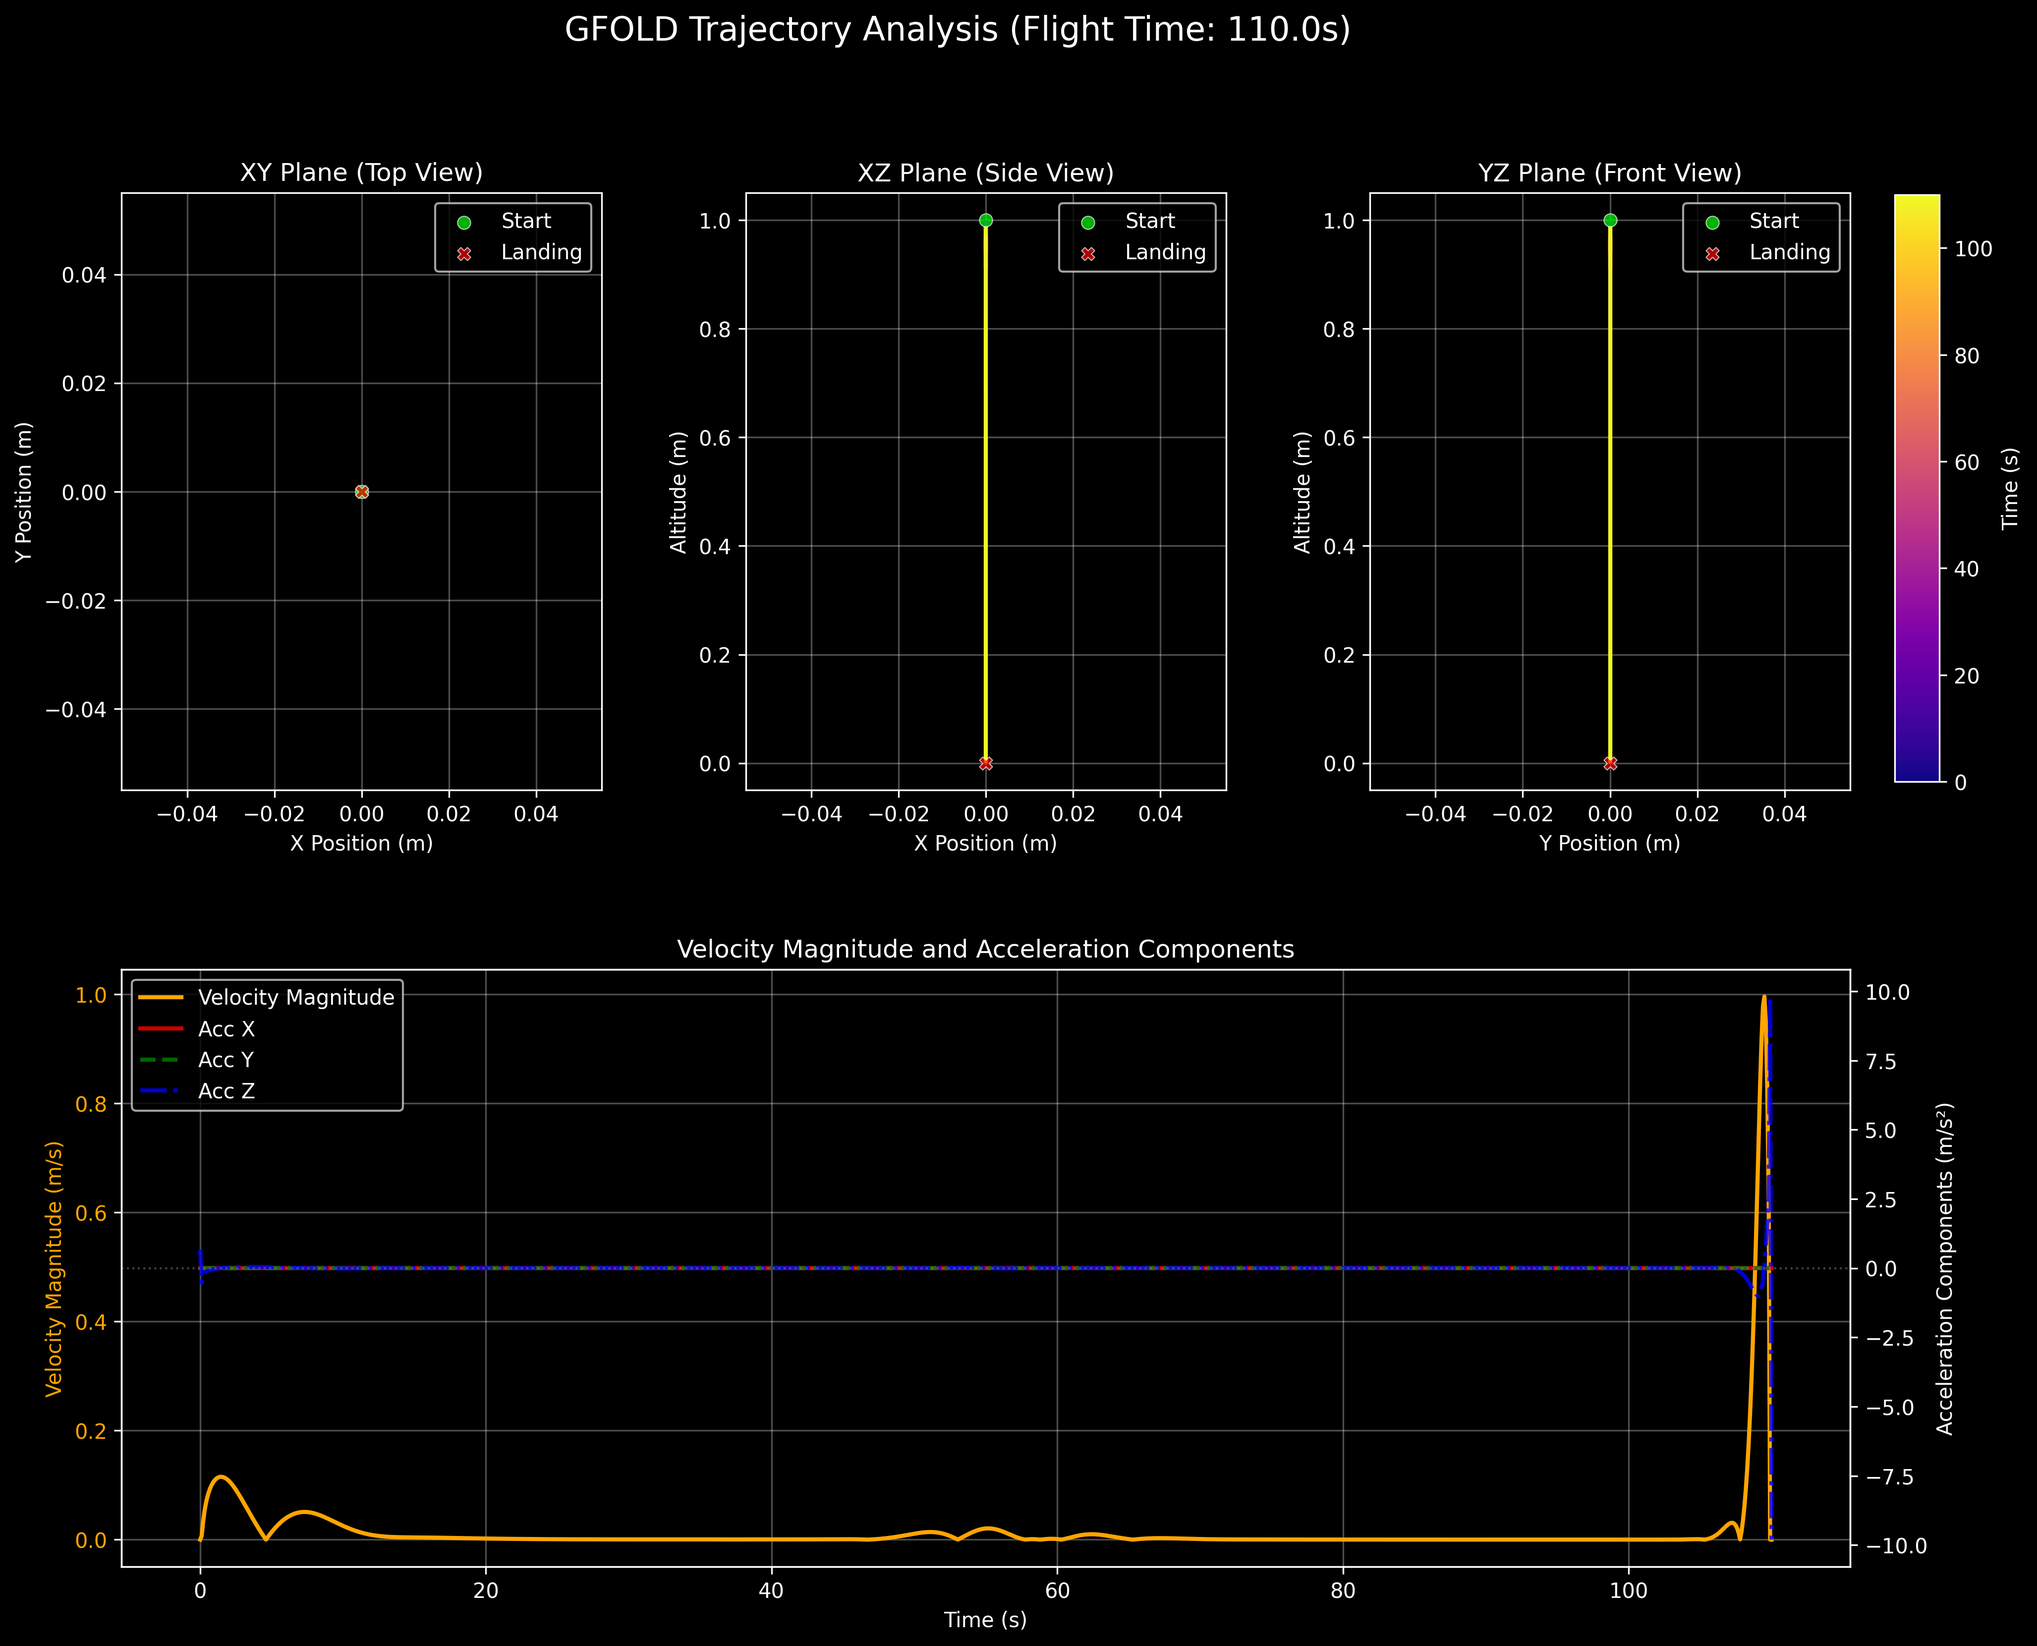
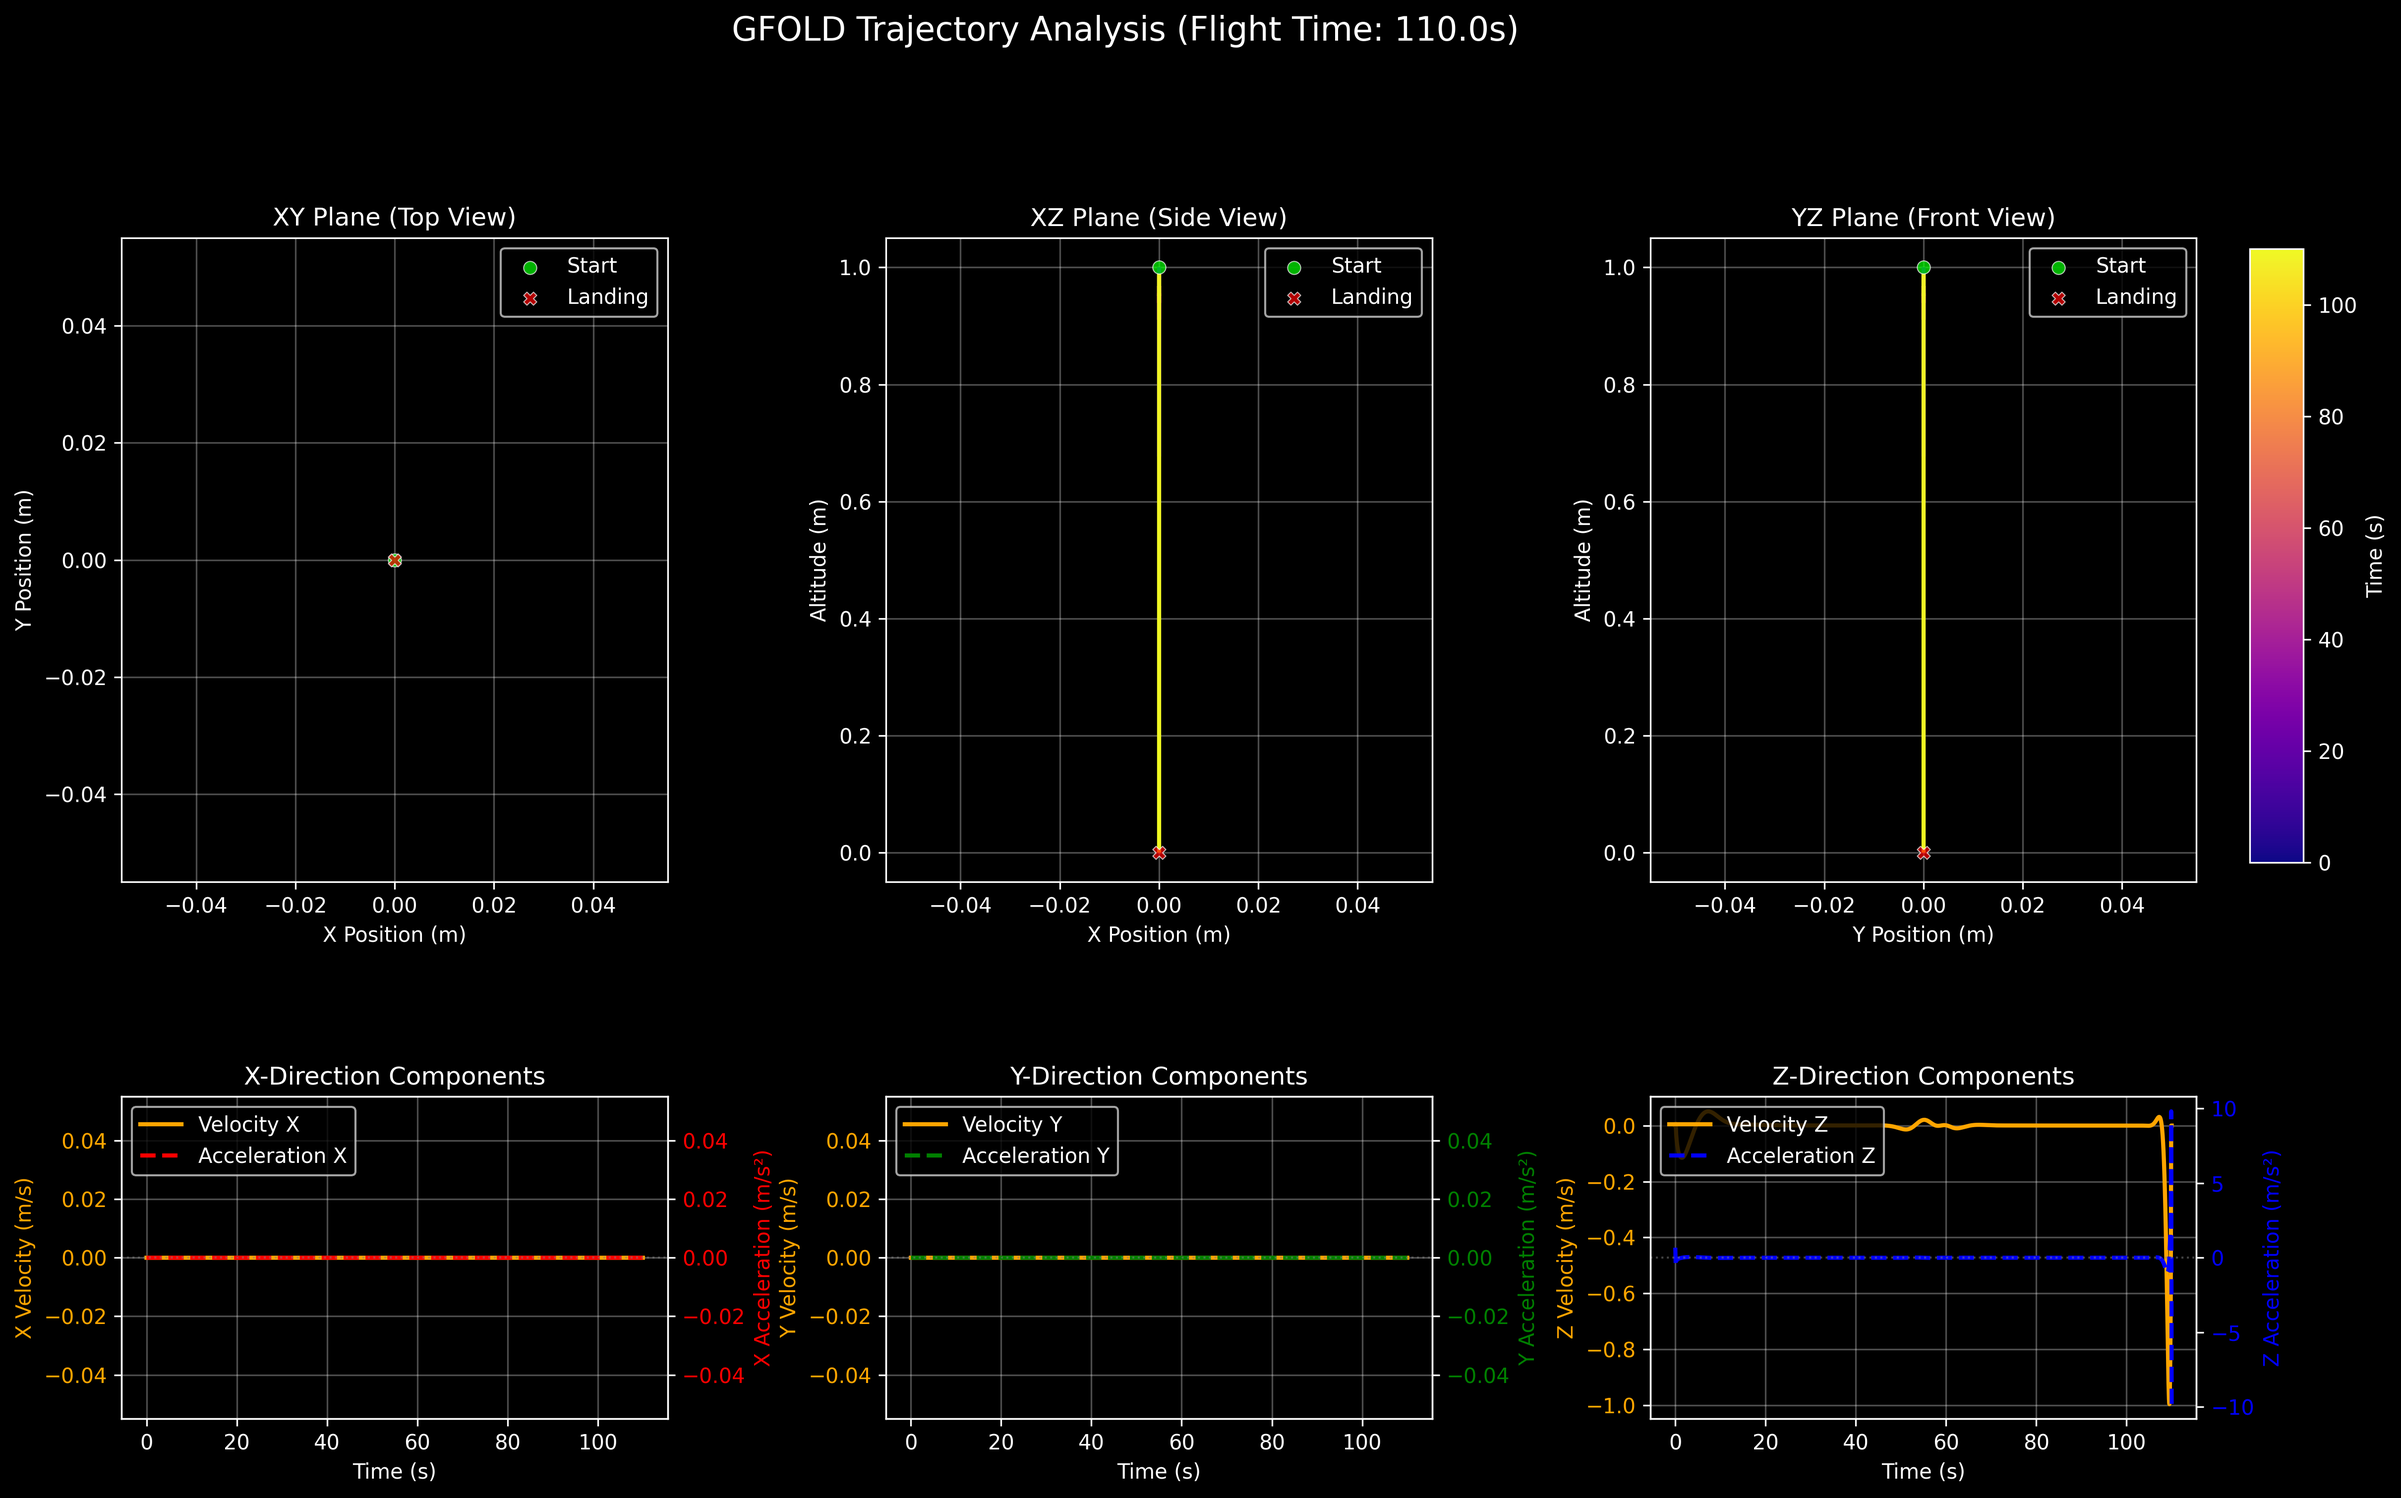
plotting adjusted

diff --git a/src/Trajectory_Generator_4/plotting.py b/src/Trajectory_Generator_4/plotting.py
@@ -204,8 +204,9 @@ class TrajectoryPlotter:
             arrow_color = 'blue'
 
         # Create figure with subplots
-        fig = plt.figure(figsize=(15, 12))
-        gs = gridspec.GridSpec(2, 3, figure=fig, hspace=0.3, wspace=0.3)
+        fig = plt.figure(figsize=(18, 15))
+        gs = gridspec.GridSpec(3, 3, figure=fig, hspace=0.5, wspace=0.4,
+                               height_ratios=[2, 1, 1])
 
         # Color mapping for time
         norm = Normalize(vmin=t.min(), vmax=t.max())
@@ -255,79 +256,119 @@ class TrajectoryPlotter:
                                    'Y Position (m)', 'Altitude (m)',
                                    'YZ Plane (Front View)')
 
-        # Combined velocity and acceleration components plot
-        ax4 = fig.add_subplot(gs[1, :])
+        # X-component velocity and acceleration
+        ax_x = fig.add_subplot(gs[1, 0])
 
-        # Calculate velocity magnitude
-        vel_mag = np.sqrt(x[3, :]**2 + x[4, :]**2 + x[5, :]**2)
-
-        # Plot velocity magnitude on primary y-axis
-        line1 = ax4.plot(t, vel_mag, linewidth=2,
-                         color='orange' if dark_theme else 'blue',
-                         label='Velocity Magnitude')
-        ax4.set_xlabel('Time (s)')
-        ax4.set_ylabel('Velocity Magnitude (m/s)',
-                       color='orange' if dark_theme else 'blue')
-        ax4.tick_params(
+        # Plot X velocity
+        line_vx = ax_x.plot(t, x[3, :], linewidth=2,
+                            color='orange' if dark_theme else 'blue',
+                            label='Velocity X')
+        ax_x.set_xlabel('Time (s)')
+        ax_x.set_ylabel('X Velocity (m/s)',
+                        color='orange' if dark_theme else 'blue')
+        ax_x.tick_params(
             axis='y', labelcolor='orange' if dark_theme else 'blue')
 
-        # Create secondary y-axis for acceleration components
-        ax4_acc = ax4.twinx()
+        # Create secondary y-axis for X acceleration
+        ax_x_acc = ax_x.twinx()
 
         if u is not None:
-            # Calculate total acceleration components (thrust + gravity)
             g_vec = gravity if gravity is not None else np.array(
-                [0, 0, -9.80665])  # Default gravity vector
-            # Add gravity to thrust acceleration
-            acc_total = u + g_vec.reshape(-1, 1)
+                [0, 0, -9.80665])
+            acc_x = u[0, :] + g_vec[0]
 
-            # Plot directional acceleration components
-            acc_colors = {
-                'x': 'red' if dark_theme else 'darkred',
-                'y': 'green' if dark_theme else 'darkgreen',
-                'z': 'blue' if dark_theme else 'darkblue'
-            }
+            line_ax = ax_x_acc.plot(t, acc_x, linewidth=2,
+                                    color='red' if dark_theme else 'darkred',
+                                    label='Acceleration X', linestyle='--')
+            ax_x_acc.set_ylabel('X Acceleration (m/s²)',
+                                color='red' if dark_theme else 'darkred')
+            ax_x_acc.tick_params(
+                axis='y', labelcolor='red' if dark_theme else 'darkred')
+            ax_x_acc.axhline(y=0, color='gray', linestyle=':',
+                             alpha=0.5, linewidth=1)
 
-            line2_x = ax4_acc.plot(t, acc_total[0, :], linewidth=2,
-                                   color=acc_colors['x'], linestyle='-',
-                                   label='Acc X', alpha=0.8)
-            line2_y = ax4_acc.plot(t, acc_total[1, :], linewidth=2,
-                                   color=acc_colors['y'], linestyle='--',
-                                   label='Acc Y', alpha=0.8)
-            line2_z = ax4_acc.plot(t, acc_total[2, :], linewidth=2,
-                                   color=acc_colors['z'], linestyle='-.',
-                                   label='Acc Z', alpha=0.8)
+        lines_x = line_vx + (line_ax if u is not None else [])
+        labels_x = [l.get_label() for l in lines_x]
+        ax_x.legend(lines_x, labels_x, loc='upper left')
+        ax_x.set_title('X-Direction Components')
+        ax_x.grid(True, alpha=0.3)
 
-            line2 = line2_x + line2_y + line2_z
-            ax4_acc.set_ylabel('Acceleration Components (m/s²)',
-                               color='black' if not dark_theme else 'white')
-            ax4_acc.tick_params(
-                axis='y', labelcolor='black' if not dark_theme else 'white')
+        # Y-component velocity and acceleration
+        ax_y = fig.add_subplot(gs[1, 1])
 
-            # Add horizontal line at zero acceleration for reference
-            ax4_acc.axhline(y=0, color='gray', linestyle=':',
-                            alpha=0.5, linewidth=1)
-        else:
-            # If no control data, show zero acceleration
-            line2 = ax4_acc.plot(t, np.zeros_like(t), linewidth=2, color='gray',
-                                 label='Acceleration (No Data)')
-            ax4_acc.set_ylabel('Acceleration Components (m/s²)', color='gray')
-            ax4_acc.tick_params(axis='y', labelcolor='gray')
+        # Plot Y velocity
+        line_vy = ax_y.plot(t, x[4, :], linewidth=2,
+                            color='orange' if dark_theme else 'blue',
+                            label='Velocity Y')
+        ax_y.set_xlabel('Time (s)')
+        ax_y.set_ylabel('Y Velocity (m/s)',
+                        color='orange' if dark_theme else 'blue')
+        ax_y.tick_params(
+            axis='y', labelcolor='orange' if dark_theme else 'blue')
 
-        # Add legend for both lines
-        lines = line1 + line2
-        labels = [l.get_label() for l in lines]
-        ax4.legend(lines, labels, loc='upper left')
+        # Create secondary y-axis for Y acceleration
+        ax_y_acc = ax_y.twinx()
 
-        ax4.set_title('Velocity Magnitude and Acceleration Components')
-        ax4.grid(True, alpha=0.3)
+        if u is not None:
+            acc_y = u[1, :] + g_vec[1]
+
+            line_ay = ax_y_acc.plot(t, acc_y, linewidth=2,
+                                    color='green' if dark_theme else 'darkgreen',
+                                    label='Acceleration Y', linestyle='--')
+            ax_y_acc.set_ylabel('Y Acceleration (m/s²)',
+                                color='green' if dark_theme else 'darkgreen')
+            ax_y_acc.tick_params(
+                axis='y', labelcolor='green' if dark_theme else 'darkgreen')
+            ax_y_acc.axhline(y=0, color='gray', linestyle=':',
+                             alpha=0.5, linewidth=1)
+
+        lines_y = line_vy + (line_ay if u is not None else [])
+        labels_y = [l.get_label() for l in lines_y]
+        ax_y.legend(lines_y, labels_y, loc='upper left')
+        ax_y.set_title('Y-Direction Components')
+        ax_y.grid(True, alpha=0.3)
+
+        # Z-component velocity and acceleration
+        ax_z = fig.add_subplot(gs[1, 2])
+
+        # Plot Z velocity
+        line_vz = ax_z.plot(t, x[5, :], linewidth=2,
+                            color='orange' if dark_theme else 'blue',
+                            label='Velocity Z')
+        ax_z.set_xlabel('Time (s)')
+        ax_z.set_ylabel('Z Velocity (m/s)',
+                        color='orange' if dark_theme else 'blue')
+        ax_z.tick_params(
+            axis='y', labelcolor='orange' if dark_theme else 'blue')
+
+        # Create secondary y-axis for Z acceleration
+        ax_z_acc = ax_z.twinx()
+
+        if u is not None:
+            acc_z = u[2, :] + g_vec[2]
+
+            line_az = ax_z_acc.plot(t, acc_z, linewidth=2,
+                                    color='blue' if dark_theme else 'darkblue',
+                                    label='Acceleration Z', linestyle='--')
+            ax_z_acc.set_ylabel('Z Acceleration (m/s²)',
+                                color='blue' if dark_theme else 'darkblue')
+            ax_z_acc.tick_params(
+                axis='y', labelcolor='blue' if dark_theme else 'darkblue')
+            ax_z_acc.axhline(y=0, color='gray', linestyle=':',
+                             alpha=0.5, linewidth=1)
+
+        lines_z = line_vz + (line_az if u is not None else [])
+        labels_z = [l.get_label() for l in lines_z]
+        ax_z.legend(lines_z, labels_z, loc='upper left')
+        ax_z.set_title('Z-Direction Components')
+        ax_z.grid(True, alpha=0.3)
 
         # Add overall title
         title = f'GFOLD Trajectory Analysis (Flight Time: {tf:.1f}s)'
         fig.suptitle(title, fontsize=16)
 
         # Add shared colorbar positioned for the top row of subplots
-        cax = fig.add_axes([0.92, 0.55, 0.02, 0.329])
+        cax = fig.add_axes([0.92, 0.6, 0.02, 0.275])
         sm = cm.ScalarMappable(norm=norm, cmap=cmap)
         sm.set_array(t)
         cbar = fig.colorbar(sm, cax=cax)
